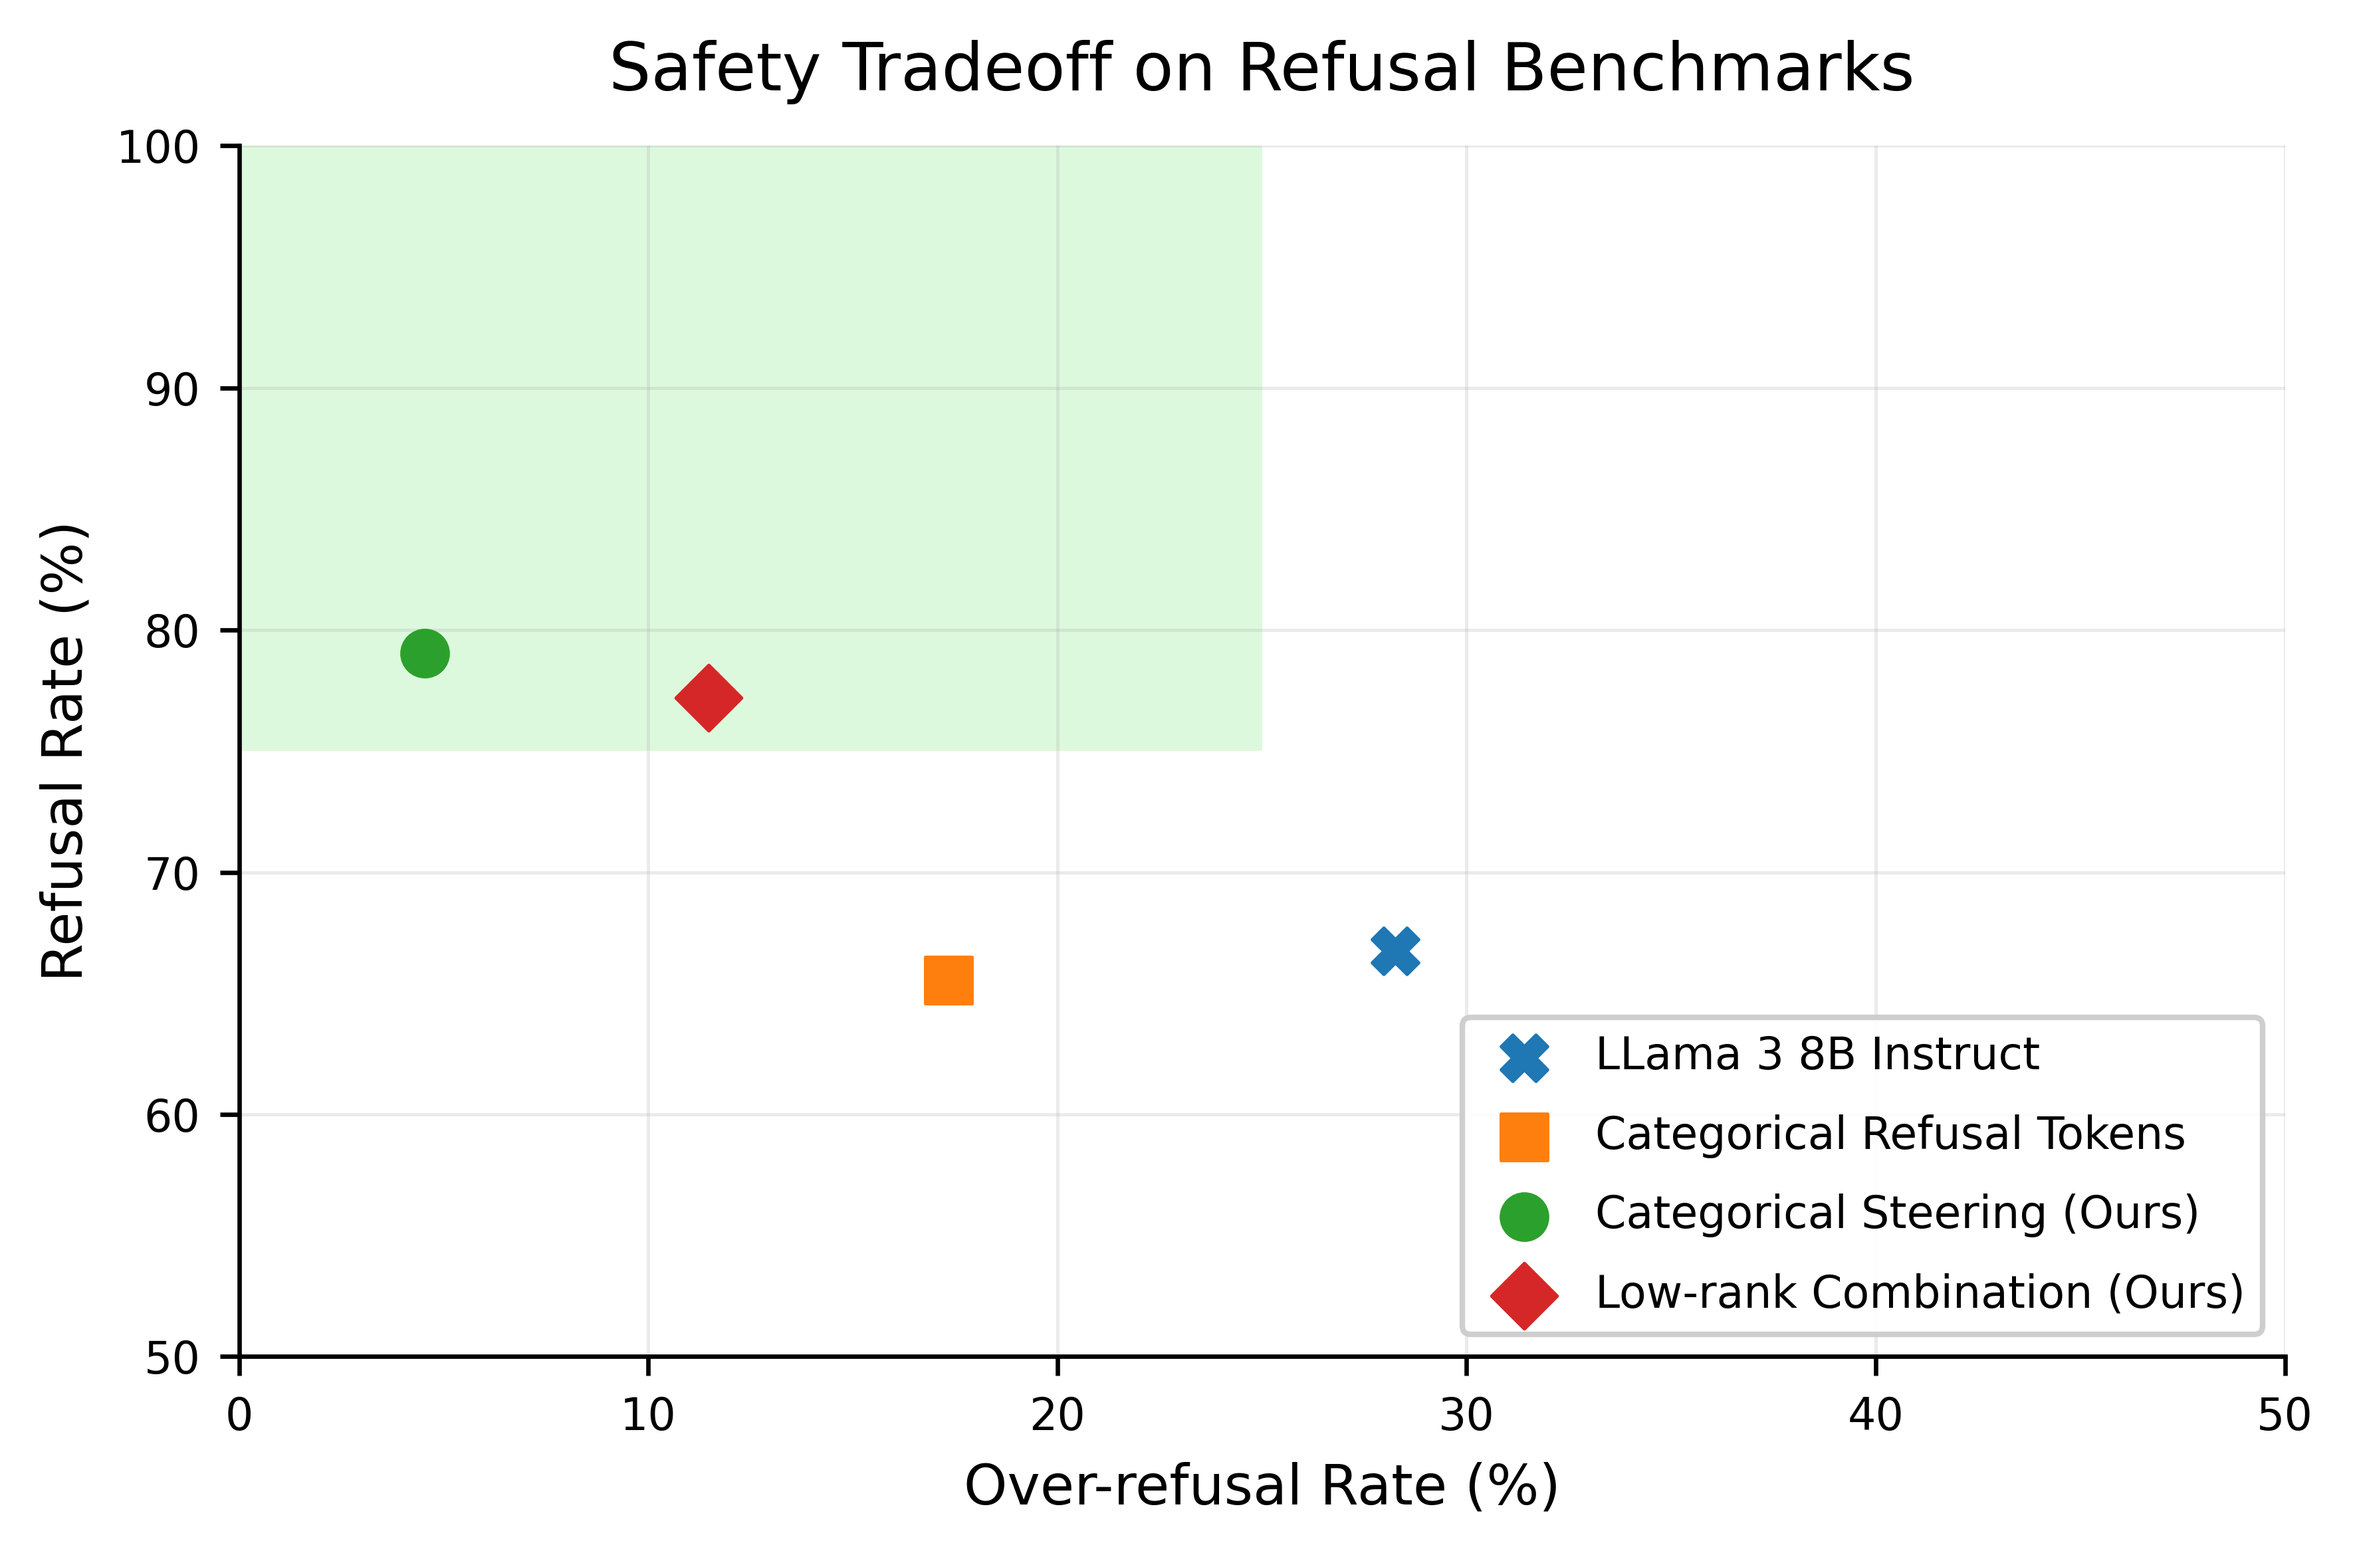
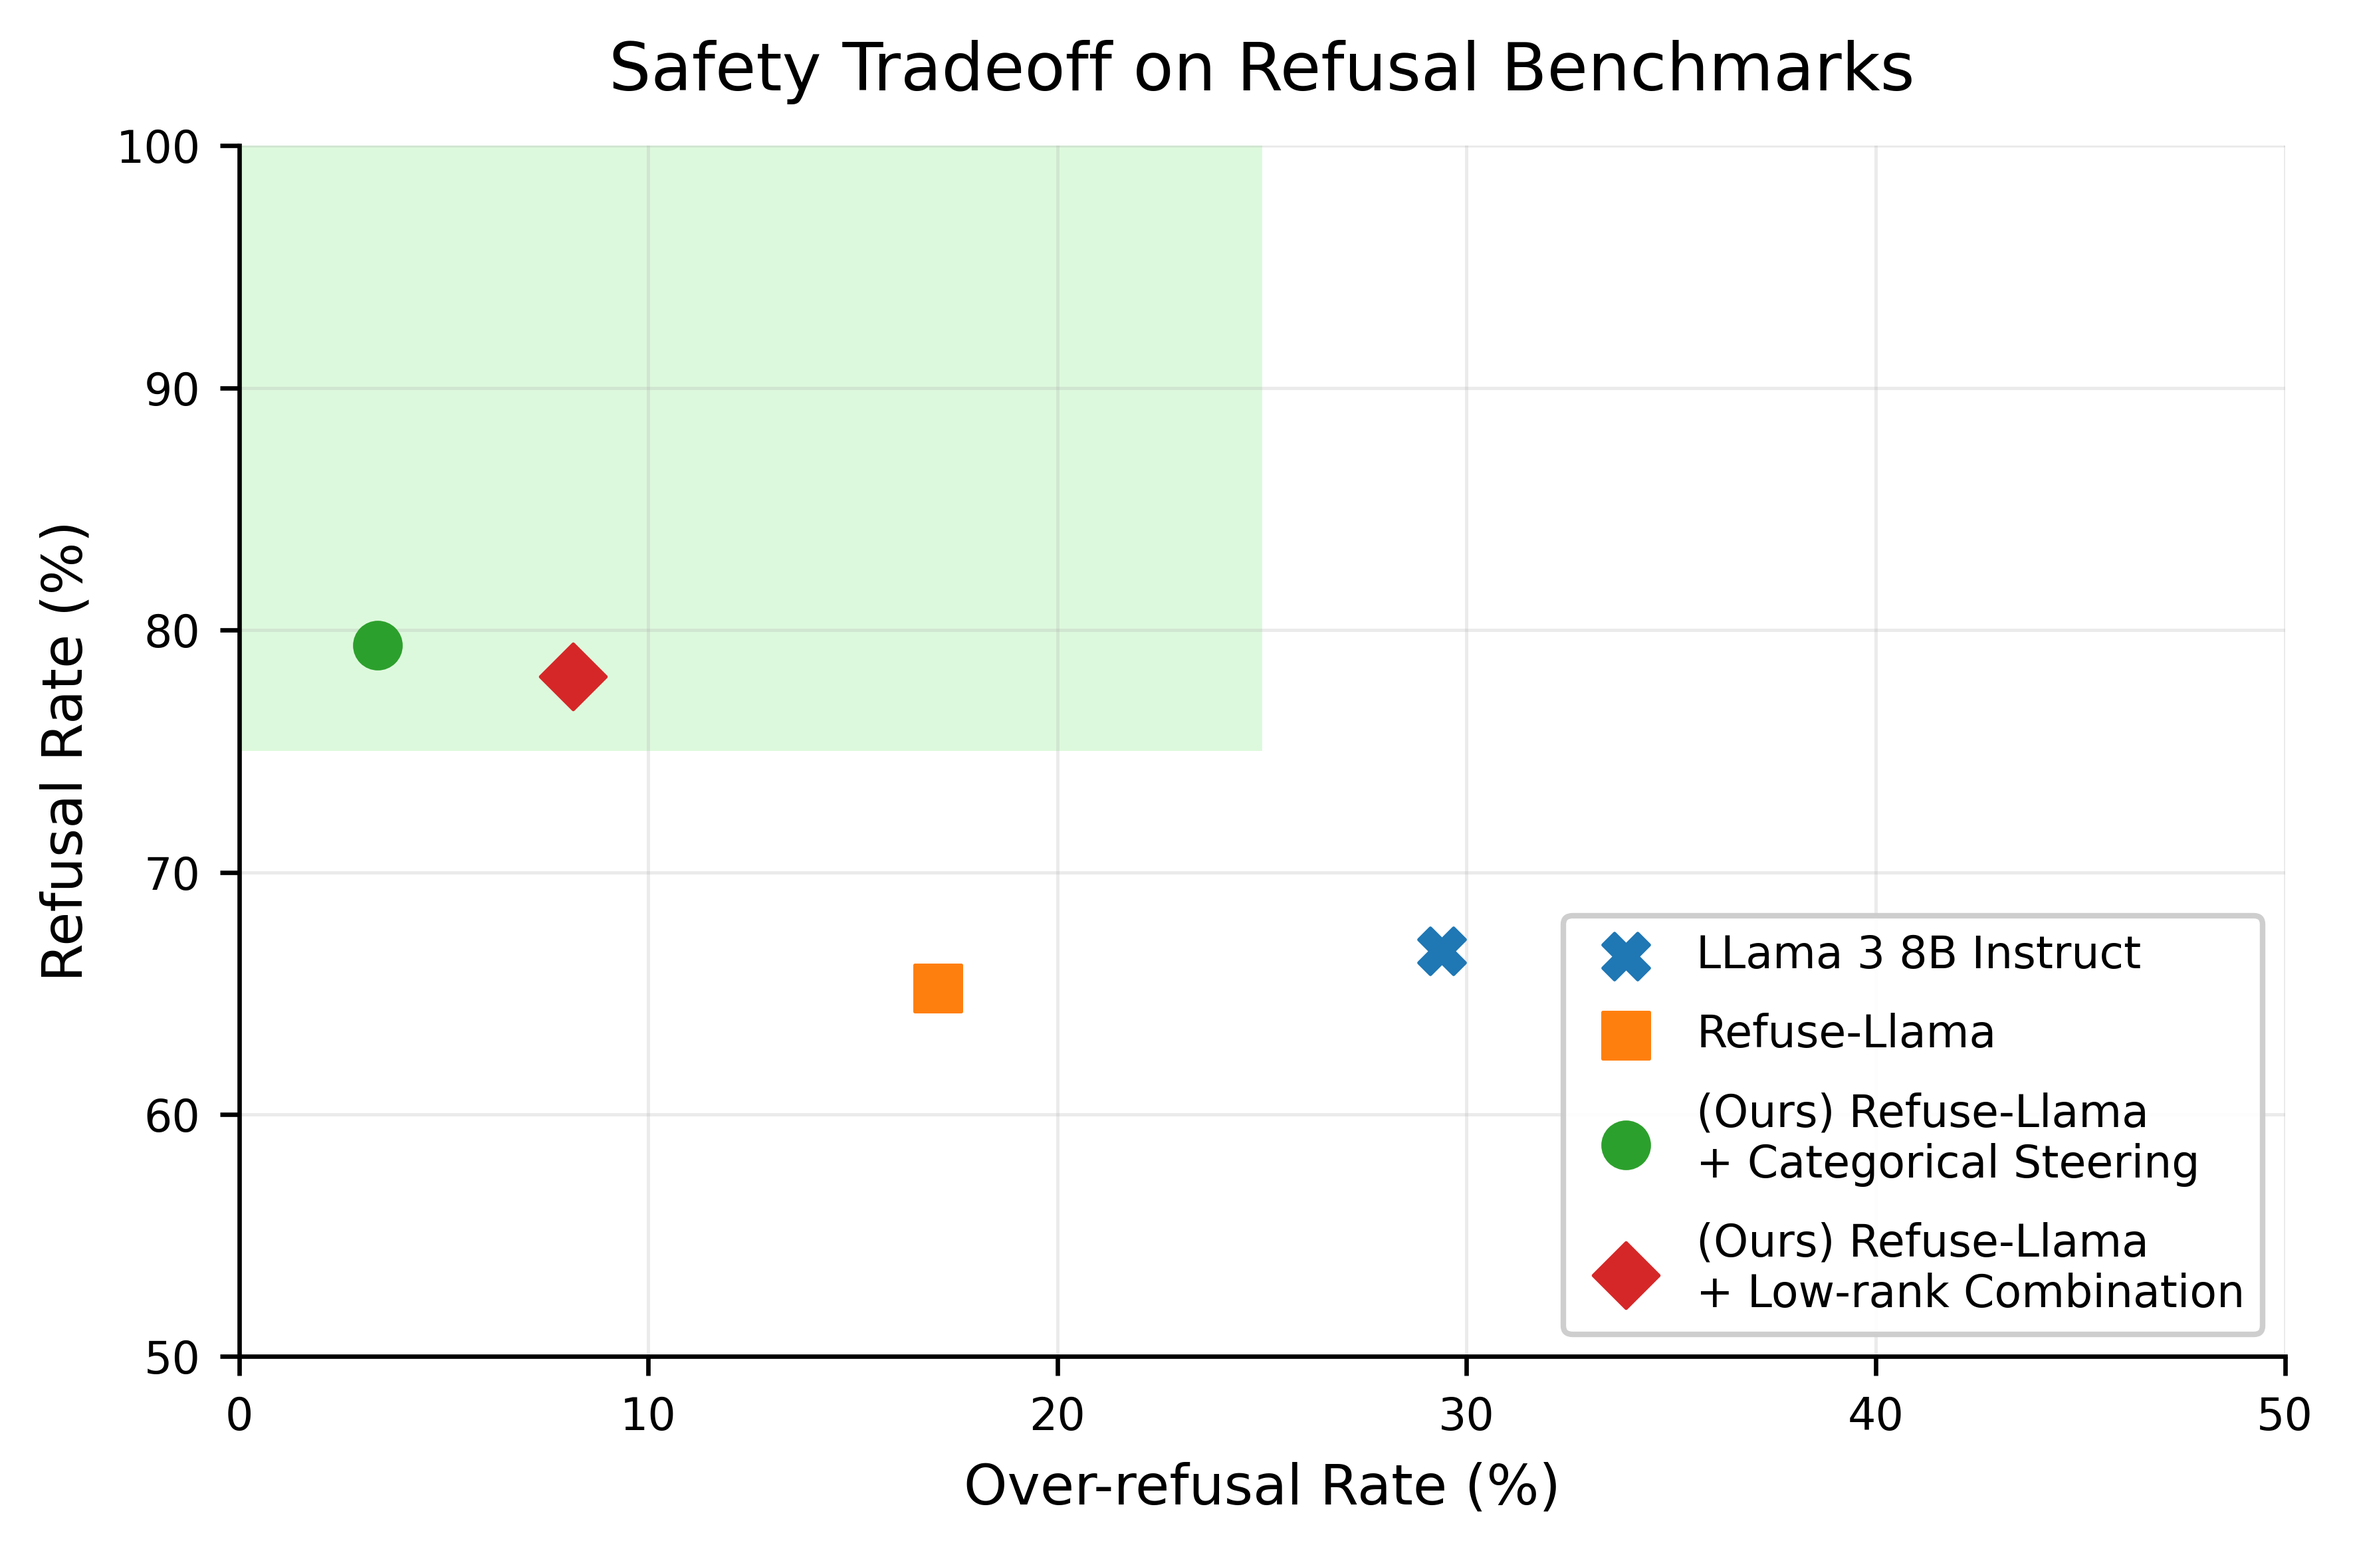
New

diff --git a/scripts/lm_eval_harness_steered.py b/scripts/lm_eval_harness_steered.py
@@ -19,7 +19,7 @@ from scripts.linear_probe import (
 from scripts.low_rank_combination_steering import LowRankSteeringCombination
 
 
-class TLensSteeredLM(LM):
+class TransformerLensSteeredLM(LM):
     def __init__(
         self,
         hooked_model: HookedTransformer,
@@ -70,7 +70,7 @@ class TLensSteeredLM(LM):
 
         self._route_cache = {}
 
-    def _trim_until(self, text, until_list):
+    def _trim_until(self, text: str, until_list: list[str] | str) -> str:
         if not until_list:
             return text
 
@@ -78,11 +78,11 @@ class TLensSteeredLM(LM):
             until_list = [until_list]
 
         cut = None
-        for u in until_list:
-            if not u:
+        for until in until_list:
+            if not until:
                 continue
 
-            idx = text.find(u)
+            idx = text.find(until)
 
             if idx != -1:
                 if cut is None or idx < cut:
@@ -93,10 +93,10 @@ class TLensSteeredLM(LM):
 
         return text[:cut]
 
-    def tok_encode(self, string):
+    def tok_encode(self, string: str) -> list[int]:
         return self.tokenizer.encode(string, add_special_tokens=False)
 
-    def tok_decode(self, tokens):
+    def tok_decode(self, tokens: list[int]) -> str:
         return self.tokenizer.decode(tokens)
 
     @property
@@ -129,12 +129,12 @@ class TLensSteeredLM(LM):
     def device(self, d):
         self._device = d
 
-    def _get_hooks_for_context(self, context_str):
+    def _get_hooks_for_context(self, context_str: str) -> list[tuple[str, callable]]:
         if self.mode == "baseline":
             return []
 
         if context_str in self._route_cache:
-            steering_obj, strength, kind = self._route_cache[context_str]
+            steering_object, strength, kind = self._route_cache[context_str]
         else:
             routed_prompt = context_str + self.append_seq
 
@@ -144,7 +144,7 @@ class TLensSteeredLM(LM):
                         "categorical_steering requires steering_vector_mapping and probe_model"
                     )
 
-                steering_obj, strength = get_categorical_steering_vector_probe(
+                steering_object, strength = get_categorical_steering_vector_probe(
                     prompt=routed_prompt,
                     hooked_model=self.model,
                     benign_strength=self.benign_strength,
@@ -165,7 +165,7 @@ class TLensSteeredLM(LM):
                         "low_rank_combination requires low_rank_combination and probe_model"
                     )
 
-                steering_obj, strength = get_low_rank_combination_steering_probe(
+                steering_object, strength = get_low_rank_combination_steering_probe(
                     prompt=routed_prompt,
                     hooked_model=self.model,
                     benign_strength=self.benign_strength,
@@ -183,35 +183,34 @@ class TLensSteeredLM(LM):
             else:
                 raise ValueError(f"Unknown mode specified: {self.mode}")
 
-            self._route_cache[context_str] = (steering_obj, strength, kind)
+            self._route_cache[context_str] = (steering_object, strength, kind)
 
         if kind == "vector":
-            # steering_obj can be None if something went wrong
-            if steering_obj is None:
+            if steering_object is None:
                 return []
 
-            vec = steering_obj.to(
+            steering_vector = steering_object.to(
                 self.device, dtype=next(self.model.parameters()).dtype
             )
 
-            hook_fn = partial(steering_hook, vec, None, strength)
+            hook_fn = partial(steering_hook, steering_vector, None, strength)
 
             return [(self.hook_name, hook_fn)]
 
         if kind == "lowrank":
-            hook_fn = partial(steering_hook, None, steering_obj, strength)
+            hook_fn = partial(steering_hook, None, steering_object, strength)
 
             return [(self.hook_name, hook_fn)]
 
         return []
 
-    def _unwrap_ll_req(self, req):
+    def _unwrap_ll_req(self, req) -> tuple[str, str]:
         if hasattr(req, "args"):
             return req.args[0], req.args[1]
 
         return req[0], req[1]
 
-    def _unwrap_gen_req(self, req):
+    def _unwrap_gen_req(self, req) -> tuple[str, list[str] | str, int]:
         if hasattr(req, "args"):
             args = req.args
             kwargs = getattr(req, "kwargs", {}) or {}
@@ -230,7 +229,7 @@ class TLensSteeredLM(LM):
 
         return prompt, until, max_gen_toks
 
-    def loglikelihood(self, requests):
+    def loglikelihood(self, requests: list) -> list[tuple[float, bool]]:
         out = []
 
         for req in tqdm(requests, desc="loglikelihood", leave=False):
@@ -269,7 +268,7 @@ class TLensSteeredLM(LM):
 
         return out
 
-    def loglikelihood_rolling(self, requests):
+    def loglikelihood_rolling(self, requests: list) -> list[tuple[float, bool]]:
         out = []
 
         for req in requests:
@@ -281,7 +280,7 @@ class TLensSteeredLM(LM):
 
         return out
 
-    def generate_until(self, requests):
+    def generate_until(self, requests: list) -> list[str]:
         res = []
 
         for req in tqdm(requests, desc="generate_until", leave=False):
@@ -327,7 +326,14 @@ class TLensSteeredLM(LM):
 
 def run_lm_eval_harness_steered(
     mode: str = "baseline",  # baseline, categorical_steering, low_rank_combination
-    tasks: str = "mmlu,truthfulqa_mc1,truthfulqa_mc2,hellaswag,arc_challenge,piqa",
+    tasks: list[str] = [
+        "mmlu",
+        "truthfulqa_mc1",
+        "truthfulqa_mc2",
+        "hellaswag",
+        "arc_challenge",
+        "piqa",
+    ],
     num_fewshot: int | None = None,
     batch_size: int = 1,
     model_id: str = "tomg-group-umd/zephyr-llama3-8b-sft-refusal-n-contrast-multiple-tokens",
@@ -346,7 +352,7 @@ def run_lm_eval_harness_steered(
 ) -> dict:
     hooked_model, tokenizer = load_hooked_model(model_id)
 
-    lm = TLensSteeredLM(
+    steered_eval_lm = TransformerLensSteeredLM(
         hooked_model=hooked_model,
         tokenizer=tokenizer,
         mode=mode,
@@ -363,18 +369,16 @@ def run_lm_eval_harness_steered(
         device=device,
     )
 
-    tasks = [task.strip() for task in tasks.split(",") if task.strip()]
     print(f"Running tasks: {tasks}")
     print(f"Mode: {mode} | num_fewshot={num_fewshot} | batch_size={batch_size}")
 
     results = evaluator.simple_evaluate(
-        model=lm,
+        model=steered_eval_lm,
         tasks=tasks,
         num_fewshot=num_fewshot,
         batch_size=batch_size,
         log_samples=True,
         verbosity="INFO",
-        # limit=50,
     )
 
     print("Results:")

diff --git a/refusal_tradeoff_plot.py b/refusal_tradeoff_plot.py
@@ -81,10 +81,10 @@ def plot_refusal_tradeoff(
 
 if __name__ == "__main__":
     points = [
-        ("LLama 3 8B Instruct", 28.26, 66.76),
-        ("Categorical Refusal Tokens", 17.34, 65.53),
-        ("Categorical Steering (Ours)", 4.54, 79.03),
-        ("Low-rank Combination (Ours)", 11.47, 77.21),
+        ("LLama 3 8B Instruct", 29.3909, 66.7611),
+        ("Refuse-Llama", 17.0802, 65.2143),
+        ("(Ours) Refuse-Llama\n+ Categorical Steering", 3.3838, 79.3836),
+        ("(Ours) Refuse-Llama\n+ Low-rank Combination", 8.1534, 78.0729),
     ]
 
     plot_refusal_tradeoff(

diff --git a/eval_refusal_judge_azure.py b/eval_refusal_judge_azure.py
@@ -234,7 +234,7 @@ if __name__ == "__main__":
         client=client,
         batch_size=32,
         description="LLM as a Judge Refusal Rate",
-        outputs_load_path="saved_outputs/model_outputs/transfer-llama-instruct/xstest_unsafe_outputs_llama-instruct_low_rank_combination_steered.jsonl",
+        outputs_load_path="saved_outputs/model_outputs/refuse-llama_categorical_steering/coconot_orig_test_outputs_categorical-refusal_categorically_steered.jsonl",
     )
 
     # single_is_refusal = refusal_single_output_llama_judge(client=client, model_response="", max_tokens=128)
